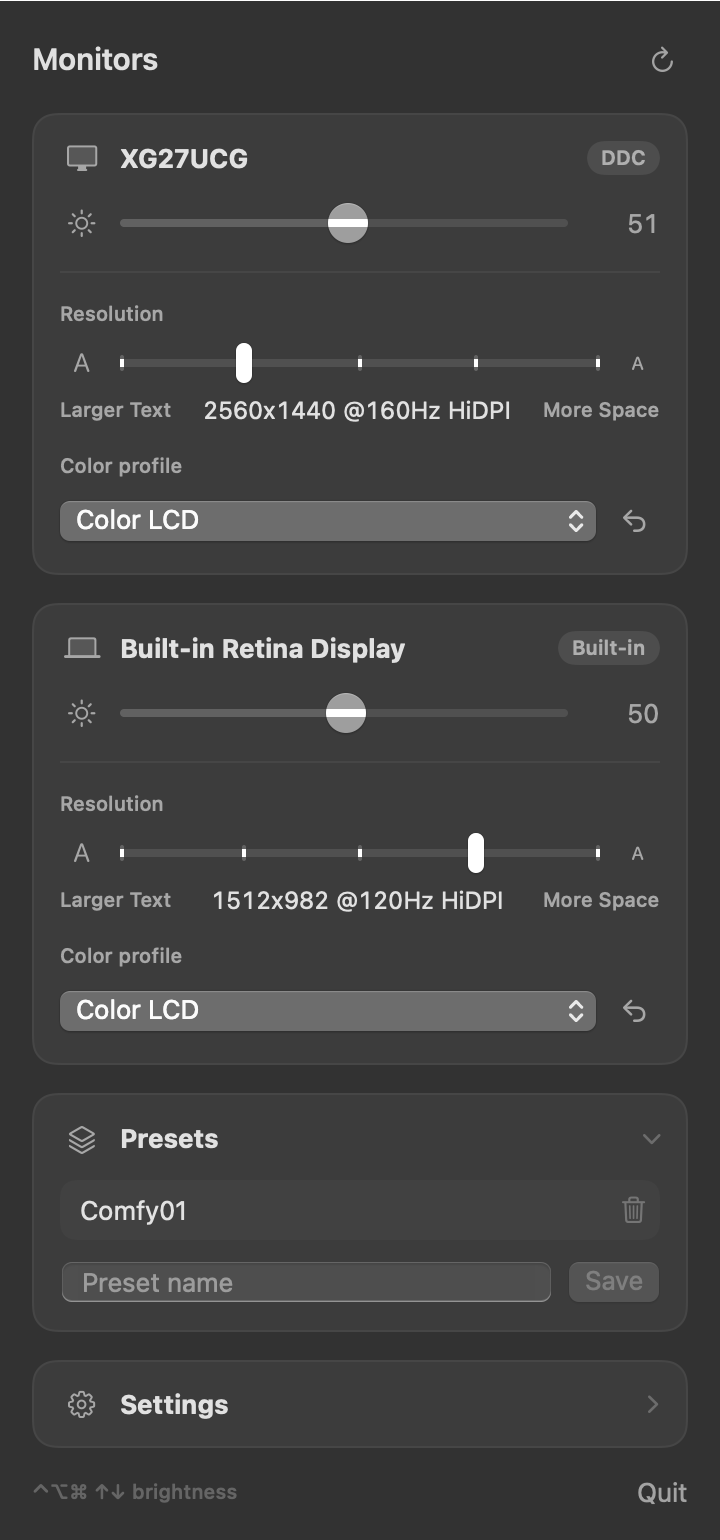
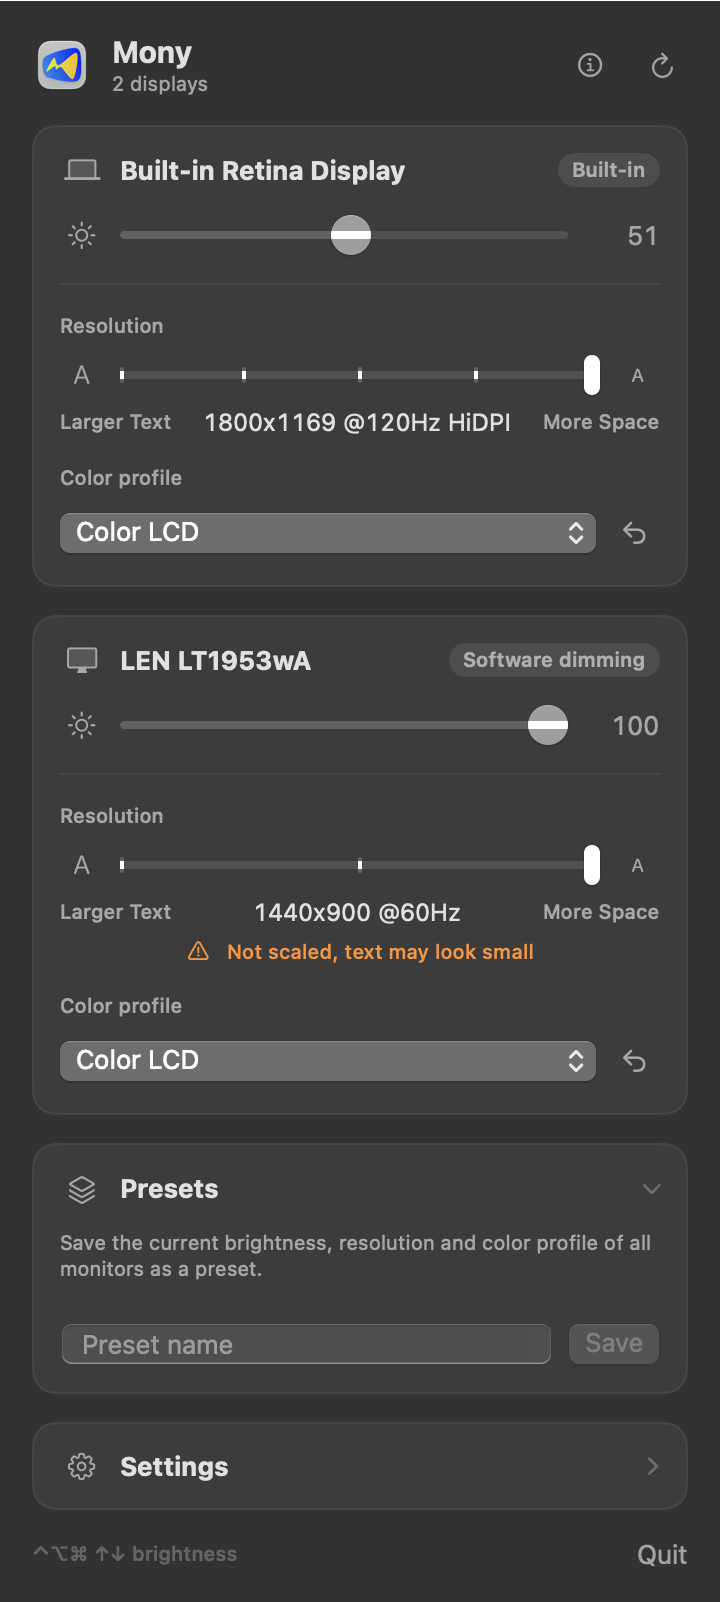
Mony 0.5.3

diff --git a/Casks/mony.rb b/Casks/mony.rb
@@ -1,6 +1,6 @@
 cask "mony" do
-  version "0.5.2"
[1 lines of base64/hex data omitted]
+  version "0.5.3"
[1 lines of base64/hex data omitted]
 
   url "https://github.com/geezowl/mony/releases/download/v#{version}/Mony-#{version}.dmg"
   name "Mony"

diff --git a/README.md b/README.md
@@ -5,6 +5,7 @@ Control the **brightness, contrast, resolution and color profile** of external m
 <p>
   <img src="images/popover-light.png" width="300" alt="MonyBar light">
   <img src="images/popover-dark.png" width="300" alt="MonyBar dark">
+  <img src="images/about-dark.png" width="300" alt="About Mony">
 </p>
 
 ## Download
@@ -43,7 +44,7 @@ Installing from the DMG is also possible, but because Mony is not notarized, mac
 
 MonyBar checks GitHub for a new release whenever you open its menu (at most once an hour). When one is out, a banner appears at the top of the menu and a small dot on the menu bar icon. From the banner you choose how to update, and neither way triggers the security prompt:
 
-- **Update with Homebrew** runs Homebrew in the background while a progress bar shows each step. When it's done, click **Restart Mony** to switch to the new version (shown only when Homebrew is installed).
+- **Update with Homebrew** runs Homebrew in the background while a progress bar shows each step. When it's done, choose **Restart Now** to switch to the new version, or **Later** (shown only when Homebrew is installed).
 - **Download DMG** saves the new installer to your Downloads folder and opens it. Quit Mony, drag `MonyBar.app` into Applications to replace the old one, and open it again.
 
 The status and a **Check Now** button are in Settings. Checking can be turned off in **Settings → Check for updates**.
@@ -57,6 +58,12 @@ The status and a **Check Now** button are in Settings. Checking can be turned of
 - Presets: save and apply brightness, contrast, resolution and color profile together.
 - Brightness sync across all monitors and global hotkeys ⌃⌥⌘ ↑/↓.
 - In-app updates with Homebrew or the DMG.
+
+## Support and follow
+
+Mony is free. If it helps you, you can [buy me a coffee on Saweria](https://saweria.co/geezowl) ☕
+
+Follow Geezowl on [Instagram](https://www.instagram.com/geezowl), [TikTok](https://tiktok.com/@geezowl) and [YouTube](https://www.youtube.com/@geezowl_tv).
 
 ## License
 
